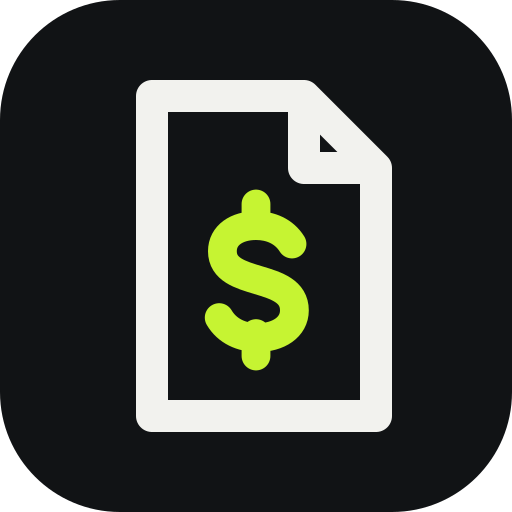
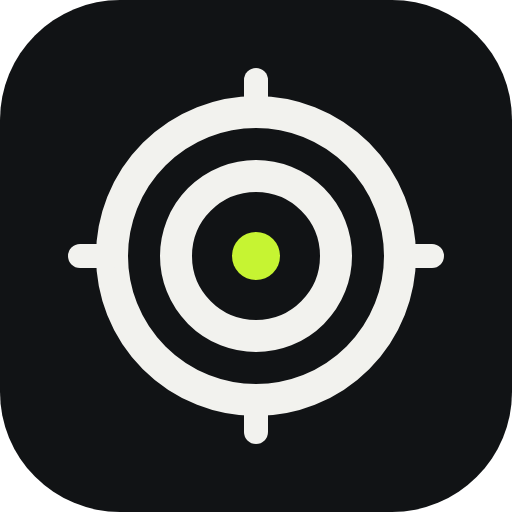
feat(radar-secop): ícono igual al del panel y animación de entrada
- Ícono de radar del panel de Planificar Proyectos Apps en icon.svg, íconos de instalación (192/512/adaptable/iPhone) y encabezado
- Pantalla de entrada como PowerFit y Proyecta: el radar se dibuja, barre una vuelta, el punto late y entra RADAR SECOP (~2,2 s)
- Se muestra al abrir, al actualizar tocando el nombre y al iniciar sesión; se cierra sola a los 6 s; respeta «reducir movimiento»
- El aviso de instalar espera a que termine la animación; caché del service worker v2

Claude-Session: https://claude.ai/code/session_01Ri4gmH9THZmfeaaeaQKWGT

Changed region(s): [[0.125, 0.125, 0.875, 0.875]]

diff --git a/radar-secop/index.html b/radar-secop/index.html
@@ -1,4 +1,50 @@
 <!doctype html><html><head><meta charset=utf8><meta name=viewport content="width=device-width,initial-scale=1,viewport-fit=cover"><style>:root{color-scheme:light;box-sizing:border-box;padding-top:env(safe-area-inset-top,0px);padding-bottom:env(safe-area-inset-bottom,0px)}html{scroll-padding-top:env(safe-area-inset-top,0px)}body{margin:0;padding:0;font:14px -apple-system,BlinkMacSystemFont,sans-serif;background:#fff;color:#000}img{max-width:100%}[hidden]:not([hidden=until-found i]){display:none!important}</style></head><body>
+<style id="splash-css">
+/* Pantalla de entrada: el radar se dibuja, barre una vuelta y el punto late; luego entra el nombre (≈2,2 s) */
+#splash{position:fixed;inset:0;z-index:100;background:var(--bg,#111315);display:flex;flex-direction:column;align-items:center;justify-content:center;gap:18px;transition:opacity .45s ease,visibility .45s;animation:sp-auto .01s linear 6s forwards;color:var(--accent-fg,#C6F432)}
+#splash.out{opacity:0;visibility:hidden}
+#splash.replay,#splash.replay *{animation-name:none!important}
+#splash svg{width:min(44vw,190px);height:auto;overflow:visible}
+#splash .ring{fill:none;stroke:var(--fg,#F2F2EE);stroke-width:12;stroke-linecap:round;stroke-dasharray:1;stroke-dashoffset:1;transform-box:fill-box;transform-origin:50% 50%;transform:rotate(-90deg);animation:sp-draw .75s cubic-bezier(.55,0,.25,1) .05s forwards}
+#splash .r2{animation-delay:.35s;animation-duration:.6s}
+#splash .tick{fill:none;stroke:var(--fg,#F2F2EE);stroke-width:9;stroke-linecap:round;opacity:0;transform-box:fill-box;transform-origin:50% 50%;animation:sp-tick .35s cubic-bezier(.2,.9,.3,1.4) .8s both}
+#splash .t2{animation-delay:.86s}#splash .t3{animation-delay:.92s}#splash .t4{animation-delay:.98s}
+#splash .sweep{transform-origin:100px 100px;opacity:0;animation:sp-sweep 1s cubic-bezier(.4,0,.2,1) .95s both}
+#splash .dot{fill:currentColor;transform-box:fill-box;transform-origin:50% 50%;animation:sp-dot .5s cubic-bezier(.2,.9,.3,1.5) 1.05s both,sp-glow 1.1s ease-in-out 1.6s infinite alternate}
+#splash .ping{fill:none;stroke:currentColor;stroke-width:4;opacity:0;transform-box:fill-box;transform-origin:50% 50%;animation:sp-ping .9s ease-out 1.2s both}
+#splash .word{font-family:var(--display,'Barlow Condensed','Arial Narrow',sans-serif);font-weight:700;font-size:clamp(30px,9vw,44px);letter-spacing:3px;line-height:1;color:var(--fg,#F2F2EE);animation:sp-word .5s ease-out 1.3s both}
+#splash .word span{color:var(--accent-fg,#C6F432)}
+@keyframes sp-draw{to{stroke-dashoffset:0}}
+@keyframes sp-tick{from{opacity:0;transform:scale(.2)}to{opacity:1;transform:none}}
+@keyframes sp-sweep{0%{opacity:0;transform:rotate(0)}15%{opacity:1}85%{opacity:1}100%{opacity:0;transform:rotate(360deg)}}
+@keyframes sp-dot{from{transform:scale(0)}to{transform:scale(1)}}
+@keyframes sp-ping{0%{opacity:0;transform:scale(1)}1%{opacity:.9;transform:scale(1)}100%{opacity:0;transform:scale(7)}}
+@keyframes sp-glow{from{filter:drop-shadow(0 0 0 currentColor)}to{filter:drop-shadow(0 0 9px currentColor)}}
+@keyframes sp-word{from{opacity:0;transform:translateY(12px);letter-spacing:10px}to{opacity:1;transform:none;letter-spacing:3px}}
+@keyframes sp-auto{to{opacity:0;visibility:hidden}}
+@media (prefers-reduced-motion:reduce){#splash *{animation:none!important;stroke-dashoffset:0!important;opacity:1!important}#splash .ping,#splash .sweep{opacity:0!important}}
+</style>
+<div id="splash" role="img" aria-label="Radar SECOP">
+  <svg viewBox="0 0 200 200" aria-hidden="true">
+    <defs><linearGradient id="sw-g" x1="0" y1="0" x2="1" y2="0"><stop offset="0" stop-color="currentColor" stop-opacity="0"/><stop offset="1" stop-color="currentColor" stop-opacity=".55"/></linearGradient></defs>
+    <circle class="ping" cx="100" cy="100" r="10"/>
+    <g class="sweep"><path d="M100 100 L100 44 A56 56 0 0 1 148.5 72 Z" fill="url(#sw-g)"/></g>
+    <circle class="ring r1" cx="100" cy="100" r="56" pathLength="1"/>
+    <circle class="ring r2" cx="100" cy="100" r="31" pathLength="1"/>
+    <path class="tick t1" d="M100 44V31"/><path class="tick t2" d="M156 100h13"/><path class="tick t3" d="M100 156v13"/><path class="tick t4" d="M44 100H31"/>
+    <circle class="dot" cx="100" cy="100" r="10"/>
+  </svg>
+  <div class="word">RADAR<span>SECOP</span></div>
+</div>
+<script>
+/* Se oculta al cargar (mínimo 2,2 s) y se repite al iniciar sesión, igual que en PowerFit y Proyecta */
+var splashT0=Date.now(),splashTm=null;
+function hideSplash(){var el=document.getElementById('splash');if(!el)return;clearTimeout(splashTm);
+  splashTm=setTimeout(function(){el.classList.add('out');if(window.Inst)setTimeout(function(){Inst.show()},500)},Math.max(0,2200-(Date.now()-splashT0)))}
+function playSplash(){var el=document.getElementById('splash');if(!el)return;el.classList.remove('out');el.classList.add('replay');void el.offsetWidth;el.classList.remove('replay');splashT0=Date.now();hideSplash()}
+if(document.readyState==='complete')hideSplash();else addEventListener('load',hideSplash);
+</script>
+
 <title>Radar SECOP · Planificar Proyectos</title>
 <meta property="og:type" content="website">
 <meta property="og:title" content="Radar SECOP · Planificar Proyectos">
@@ -555,7 +601,7 @@ body .pp-card .pp-primary{background:var(--accent);color:var(--accent-ink);borde
 <div class="wrap">
   <div class="top">
     <div>
-      <div class="hrow"><div class="brand" data-reload role="button" tabindex="0" title="Actualizar la página" aria-label="Radar SECOP · actualizar la página"><svg viewBox="14 9 36 46" aria-hidden="true"><path d="M19 12h19l9 9v31H19z" fill="none" stroke="currentColor" stroke-width="4" stroke-linejoin="round"/><path d="M38 12v9h9" fill="none" stroke="currentColor" stroke-width="4" stroke-linejoin="round"/><path d="M36.5 30.5c-1-1.6-2.7-2.3-4.5-2.3-2.4 0-4.2 1.2-4.2 3.2 0 4.6 9 2.6 9 7.4 0 2.1-2 3.4-4.6 3.4-2 0-3.8-.8-4.8-2.5M32 25.5v2.7M32 41.7v2.8" fill="none" stroke="var(--accent-fg)" stroke-width="3.6" stroke-linecap="round" stroke-linejoin="round"/></svg><b>RADAR<span>SECOP</span></b></div><div class="fecha" id="fecha"></div></div>
+      <div class="hrow"><div class="brand" data-reload role="button" tabindex="0" title="Actualizar la página" aria-label="Radar SECOP · actualizar la página"><svg viewBox="8 8 48 48" aria-hidden="true"><circle cx="32" cy="32" r="18" fill="none" stroke="currentColor" stroke-width="4"/><circle cx="32" cy="32" r="10" fill="none" stroke="currentColor" stroke-width="4"/><circle cx="32" cy="32" r="3.4" fill="var(--accent-fg)"/><path d="M32 14v-4M32 54v-4M14 32h-4M54 32h-4" stroke="currentColor" stroke-width="3" stroke-linecap="round"/></svg><b>RADAR<span>SECOP</span></b></div><div class="fecha" id="fecha"></div></div>
       <h1 id="saludo">Radar SECOP</h1>
       <p class="sub" id="sub"></p>
     </div>
@@ -1927,7 +1973,8 @@ var Inst={prompt:null,KEY:'radar:installDismiss',
       (inBar?'<div class="ib-btns"><button class="btn" type="button" data-inst="no">Entendido</button></div>':'');
   },
   show:function(){ var el=document.getElementById('install'),g=document.getElementById('gate'); if(!el) return;
-    var on=this.can()&&!this.dismissed()&&g&&g.hidden&&!(window.filtrosAbiertos&&filtrosAbiertos());
+    var sp=document.getElementById('splash');
+    var on=this.can()&&!this.dismissed()&&g&&g.hidden&&(!sp||sp.classList.contains('out'))&&!(window.filtrosAbiertos&&filtrosAbiertos());
     if(on){ el.innerHTML=this.body(true); el.hidden=false; } else el.hidden=true;
     var c=document.getElementById('cta-instalar'); if(c){
       if(this.standalone()){ c.innerHTML='<div class="cta-body"><div class="ib-row"><img src="icon-192.png" alt="" width="40" height="40"><div class="ib-txt"><b>App instalada</b><span>Estás usando Radar SECOP como app</span></div></div></div>'; c.hidden=false; }
@@ -2110,7 +2157,7 @@ html.lock,html.lock body{overflow:hidden}
     var gs=document.querySelector('[data-google-slot]');if(gs)gs.hidden=true;$g('lOut').hidden=false;
     $g('gateTxt').textContent='La cuenta '+u.email+' no tiene acceso al Radar SECOP. Es solo para miembros de Planificar Proyectos SAS; pide acceso al administrador.'}
   auth.onAuthStateChanged(function(u){
-    if(!u){$g('gate').hidden=false;return}
+    if(!u){$g('gate').hidden=false;window.__loginPend=true;return}
     var em=String(u.email||'').toLowerCase();
     Uso.esAdmin(fs,u).then(function(adm){
       if(adm) return {ok:true};
@@ -2120,6 +2167,7 @@ html.lock,html.lock body{overflow:hidden}
     }).then(function(r){
       if(!r.ok) return sinAcceso(u);
       $g('gate').hidden=true;
+      if(window.__loginPend){window.__loginPend=false;if(window.playSplash)playSplash()}
       // Poblar sección Cuenta
       $g('cta-email').textContent=em;
       try{fs.collection('users').doc(u.uid).collection('perfil').doc('datos').onSnapshot(function(d){var n=d.exists&&d.data().nombre||'';$g('cta-nombre').textContent=n||em.split('@')[0];if(window.ppSaludo)ppSaludo(n);if(window.Fav)Fav.nombre(n)})}catch(e){$g('cta-nombre').textContent=em.split('@')[0]}

diff --git a/radar-secop/sw.js b/radar-secop/sw.js
@@ -1,5 +1,5 @@
 // Service worker del Radar SECOP: red primero, caché si no hay conexión.
-const C='radar-secop-v1';const A=['./','./index.html','./icon.svg','./icon-192.png','./icon-512.png','./manifest.webmanifest','./firebase-config.js'];
+const C='radar-secop-v2';const A=['./','./index.html','./icon.svg','./icon-192.png','./icon-512.png','./icon-maskable-192.png','./icon-maskable-512.png','./apple-touch-icon.png','./manifest.webmanifest','./firebase-config.js'];
 self.addEventListener('install',e=>{self.skipWaiting();e.waitUntil(caches.open(C).then(c=>c.addAll(A)).catch(()=>{}))});
 self.addEventListener('activate',e=>e.waitUntil(caches.keys().then(k=>Promise.all(k.filter(x=>x.startsWith('radar-secop-')&&x!==C).map(x=>caches.delete(x)))).then(()=>self.clients.claim())));
 self.addEventListener('fetch',e=>{if(e.request.method!=='GET'||new URL(e.request.url).origin!==location.origin)return;e.respondWith(fetch(e.request).then(r=>{if(r.ok){const cp=r.clone();caches.open(C).then(c=>c.put(e.request,cp))}return r}).catch(()=>caches.match(e.request)))});
